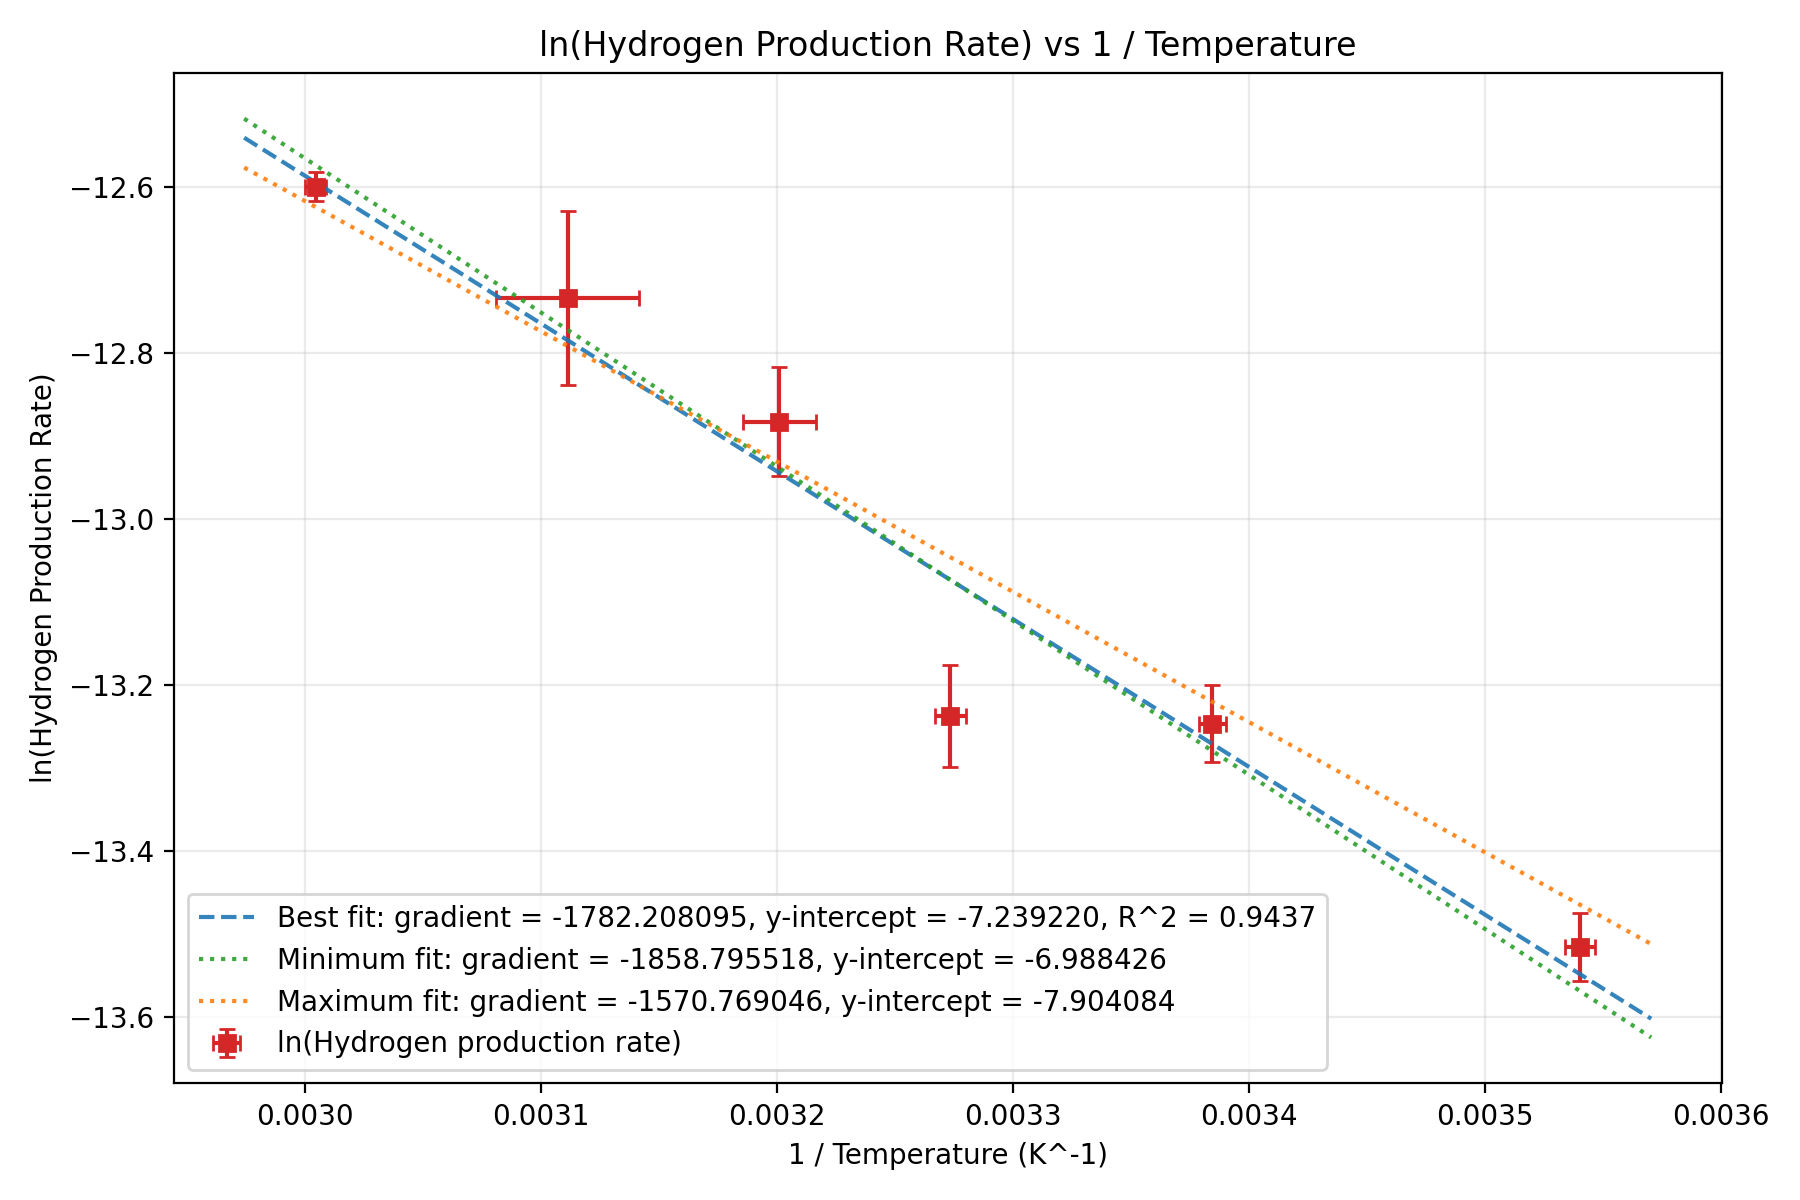
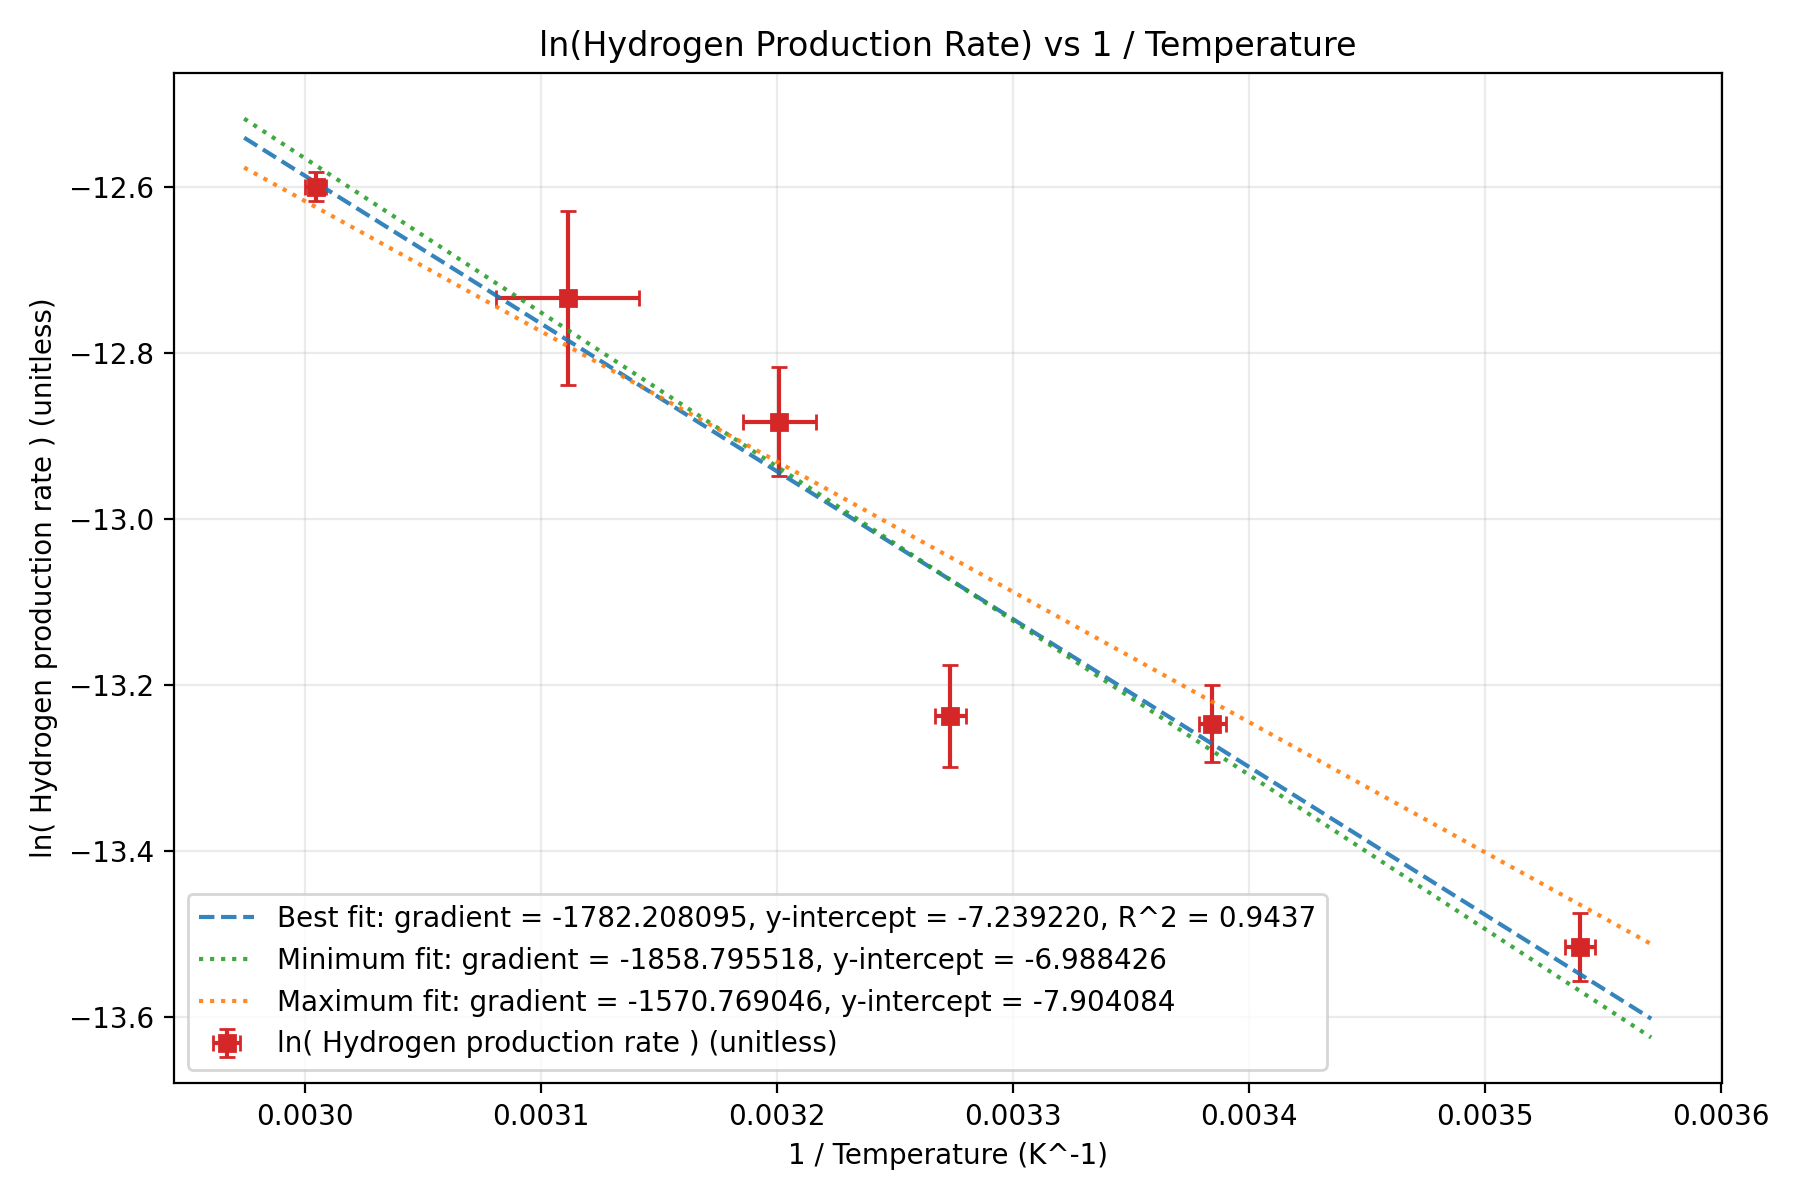
Update labels unit indication

Changed region(s): [[0.0, 0.2467, 0.0311, 0.6783], [0.1556, 0.8633, 0.4667, 0.8942]]

diff --git a/graph.py b/graph.py
@@ -212,7 +212,7 @@ def main():
 		fmt="s",
 		capsize=3,
 		color="#d62728",
-		label="ln(Hydrogen production rate)",
+		label="ln( Hydrogen production rate ) (unitless)",
 	)
 
 	plt.plot(
@@ -242,7 +242,7 @@ def main():
 
 	plt.title("ln(Hydrogen Production Rate) vs 1 / Temperature")
 	plt.xlabel("1 / Temperature (K^-1)")
-	plt.ylabel("ln(Hydrogen Production Rate)")
+	plt.ylabel("ln( Hydrogen production rate ) (unitless)")
 	plt.grid(alpha=0.25)
 	plt.legend()
 	plt.tight_layout()
